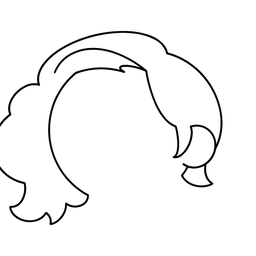
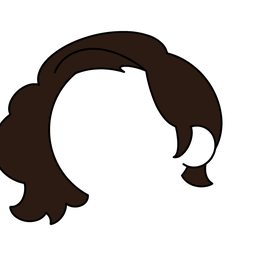
feat(ui): 素材格改用着色缩略图，色块按类目显示
- 清单新增 thumb 字段，_thumb 按槽位默认色着色后生成
- 前端优先加载缩略图，白底发型/脸型不再看不见
- 色块只显示当前类目的调色板
- 默认头像不戴眼镜、默认眉改细眉
- 快照重建，测试全绿

Changed region(s): [[0.0, 0.125, 0.875, 0.875], [0.7188, 0.625, 0.8125, 0.75]]

diff --git a/src/diyface/static/app.js b/src/diyface/static/app.js
@@ -207,7 +207,7 @@ function selectSlot(slotId) {
   syncColorControls(slot);
 }
 
-function makeAssetButton({ id, file, selected, label, none = false }) {
+function makeAssetButton({ id, file, thumb, selected, label, none = false }) {
   const button = document.createElement("button");
   button.type = "button";
   button.className = none ? "asset asset-none" : "asset";
@@ -223,7 +223,7 @@ function makeAssetButton({ id, file, selected, label, none = false }) {
     button.append(mark);
   } else {
     const image = document.createElement("img");
-    image.src = `/assets/${file}`;
+    image.src = `/assets/${thumb || file}`;
     image.alt = "";
     image.loading = "lazy";
     image.decoding = "async";
@@ -250,6 +250,7 @@ function renderAssets(slot) {
     makeAssetButton({
       id: asset.id,
       file: asset.file,
+      thumb: asset.thumb,
       selected: selected === asset.id,
       label: `${displayLabel(slot)}：${asset.id}`,
     })
@@ -280,15 +281,14 @@ function syncAssetSelection() {
 /* 颜色                                                                */
 /* ------------------------------------------------------------------ */
 
-function buildSwatches() {
+function buildSwatches(slot) {
   const colors = [];
-  for (const slot of state.manifest.slots) {
-    const palette = Array.isArray(slot.colors) ? slot.colors : [slot.default_color];
-    for (const raw of palette) {
-      const color = String(raw || "").toUpperCase();
-      if (slot.tintable && HEX_COLOR.test(color) && !colors.includes(color)) {
-        colors.push(color);
-      }
+  const palette =
+    slot && Array.isArray(slot.colors) ? slot.colors : slot ? [slot.default_color] : [];
+  for (const raw of palette) {
+    const color = String(raw || "").toUpperCase();
+    if (slot && slot.tintable && HEX_COLOR.test(color) && !colors.includes(color)) {
+      colors.push(color);
     }
   }
 
@@ -315,6 +315,8 @@ function syncColorControls(slot) {
   elements.colorHint.textContent = slot.tintable
     ? `正在调整「${displayLabel(slot)}」的颜色`
     : `「${displayLabel(slot)}」是固定素材，不支持换色`;
+
+  buildSwatches(slot);
 
   for (const button of elements.swatches.querySelectorAll(".swatch")) {
     button.disabled = !slot.tintable;
@@ -700,7 +702,7 @@ async function boot() {
     state.slotId = pickInitialSlot();
     if (!state.slotId) throw new Error("没有可用槽位");
 
-    buildSwatches();
+    buildSwatches(findSlot(state.slotId));
     renderCategories();
     selectSlot(state.slotId);
     wireEvents();

diff --git a/src/diyface/thumbs.py b/src/diyface/thumbs.py
@@ -11,6 +11,8 @@ from pathlib import Path
 from PIL import Image
 
 from .catalog import scan
+from .models import SLOT_BY_ID
+from .palettes import tint
 
 THUMB_SIZE = 256
 THUMB_DIR = "_thumb"
@@ -27,11 +29,16 @@ def build_thumbs(root: Path, slot: str | None = None) -> int:
     for slot_id, assets in scan(root).items():
         if slot and slot_id.value != slot:
             continue
+        slot_meta = SLOT_BY_ID[slot_id]
         for asset in assets:
             target = thumb_path(asset.path)
             target.parent.mkdir(parents=True, exist_ok=True)
             with Image.open(asset.path) as image:
-                image.resize((THUMB_SIZE, THUMB_SIZE), Image.LANCZOS).save(
+                thumb = image.convert("RGBA")
+                if slot_meta.tintable:
+                    # 白底素材直接缩小会看不见，用槽位默认色染一遍再生成
+                    thumb = tint(thumb, slot_meta.default_color)
+                thumb.resize((THUMB_SIZE, THUMB_SIZE), Image.LANCZOS).save(
                     target, optimize=True
                 )
             count += 1

diff --git a/tests/test_app.py b/tests/test_app.py
@@ -32,7 +32,7 @@ def test_manifest_lists_only_slots_that_have_assets(client) -> None:
     assert {"skin", "hair", "eyes"} <= set(ids), "至少这几个槽位必须有素材"
     for slot in data["slots"]:
         assert slot["assets"], "既然出现在清单里，就必须至少有一个素材"
-        assert set(slot["assets"][0]) == {"id", "file"}
+        assert set(slot["assets"][0]) == {"id", "file", "thumb"}
         assert slot["label"]["zh"], "每个槽位都要有中文名，前端直接显示"
 
 
@@ -50,7 +50,7 @@ def test_default_recipe_endpoint_picks_first_asset(client) -> None:
     assert data["slots"]["skin"] == "skin_base"
     assert data["slots"]["hair"] == "hair_straight_01"
     assert data["slots"]["hat"] is None, "本期不做帽子"
-    assert data["slots"]["glasses"] == "glasses_round_01"
+    assert data["slots"]["glasses"] is None, "眼镜是配饰，默认不戴"
 
 
 def test_healthz_reports_counts(client) -> None:

diff --git a/src/diyface/catalog.py b/src/diyface/catalog.py
@@ -84,7 +84,11 @@ def manifest(catalog: dict[SlotId, list[Asset]]) -> dict:
                 "default_color": slot.default_color,
                 "colors": list(PALETTES.get(slot.id, (slot.default_color,))),
                 "assets": [
-                    {"id": asset.id, "file": f"{slot.folder_no}/{asset.path.name}"}
+                    {
+                        "id": asset.id,
+                        "file": f"{slot.folder_no}/{asset.path.name}",
+                        "thumb": f"{slot.folder_no}/_thumb/{asset.path.stem}_256.png",
+                    }
                     for asset in assets
                 ],
             }

diff --git a/src/diyface/app.py b/src/diyface/app.py
@@ -50,9 +50,10 @@ def reset_catalog() -> None:
 def first_recipe(catalog: dict[SlotId, dict[str, Asset]]) -> AvatarRecipe:
     """首次进入时的默认脸：每个有素材的槽位取第一张。"""
     slots = {}
+    optional = {SlotId.GLASSES, SlotId.HAT, SlotId.EXTRA}
     for slot in SLOTS:
         available = catalog.get(slot.id, {})
-        if not available:
+        if not available or slot.id in optional:
             slots[slot.id] = None
         elif slot.default_asset in available:
             slots[slot.id] = slot.default_asset

diff --git a/scripts/import_adventurer.py b/scripts/import_adventurer.py
@@ -38,7 +38,7 @@ CURATED: dict[str, tuple[str, bool, str, list[int]]] = {
     "05_eyes": (
         "eyes", False, "eyes_round_01", [1, 2, 3, 4, 5, 6, 7, 8, 9, 10, 11, 12, 13, 14, 15, 16, 17, 18, 19, 20]
     ),
-    "06_brows": ("eyebrows", True, "brows_soft_01", [1, 4, 8, 12]),
+    "06_brows": ("eyebrows", True, "brows_soft_01", [8, 1, 4, 12]),
     "07_mouth": ("mouth", False, "mouth_smile_01", [1, 2, 3, 4, 5, 6, 7, 8, 9, 10, 11, 12, 13, 14, 15, 16, 26]),
     "08_glasses": ("glasses", False, "glasses_round_01", [1, 2, 3, 4, 5]),
 }

diff --git a/tests/test_catalog.py b/tests/test_catalog.py
@@ -108,6 +108,7 @@ def test_manifest_carries_metadata_and_relative_paths(assets_root: Path) -> None
     assert bangs["assets"][0] == {
         "id": "hair_straight_01",
         "file": "04_hair/hair_straight_01.png",
+        "thumb": "04_hair/_thumb/hair_straight_01_256.png",
     }
 
 
